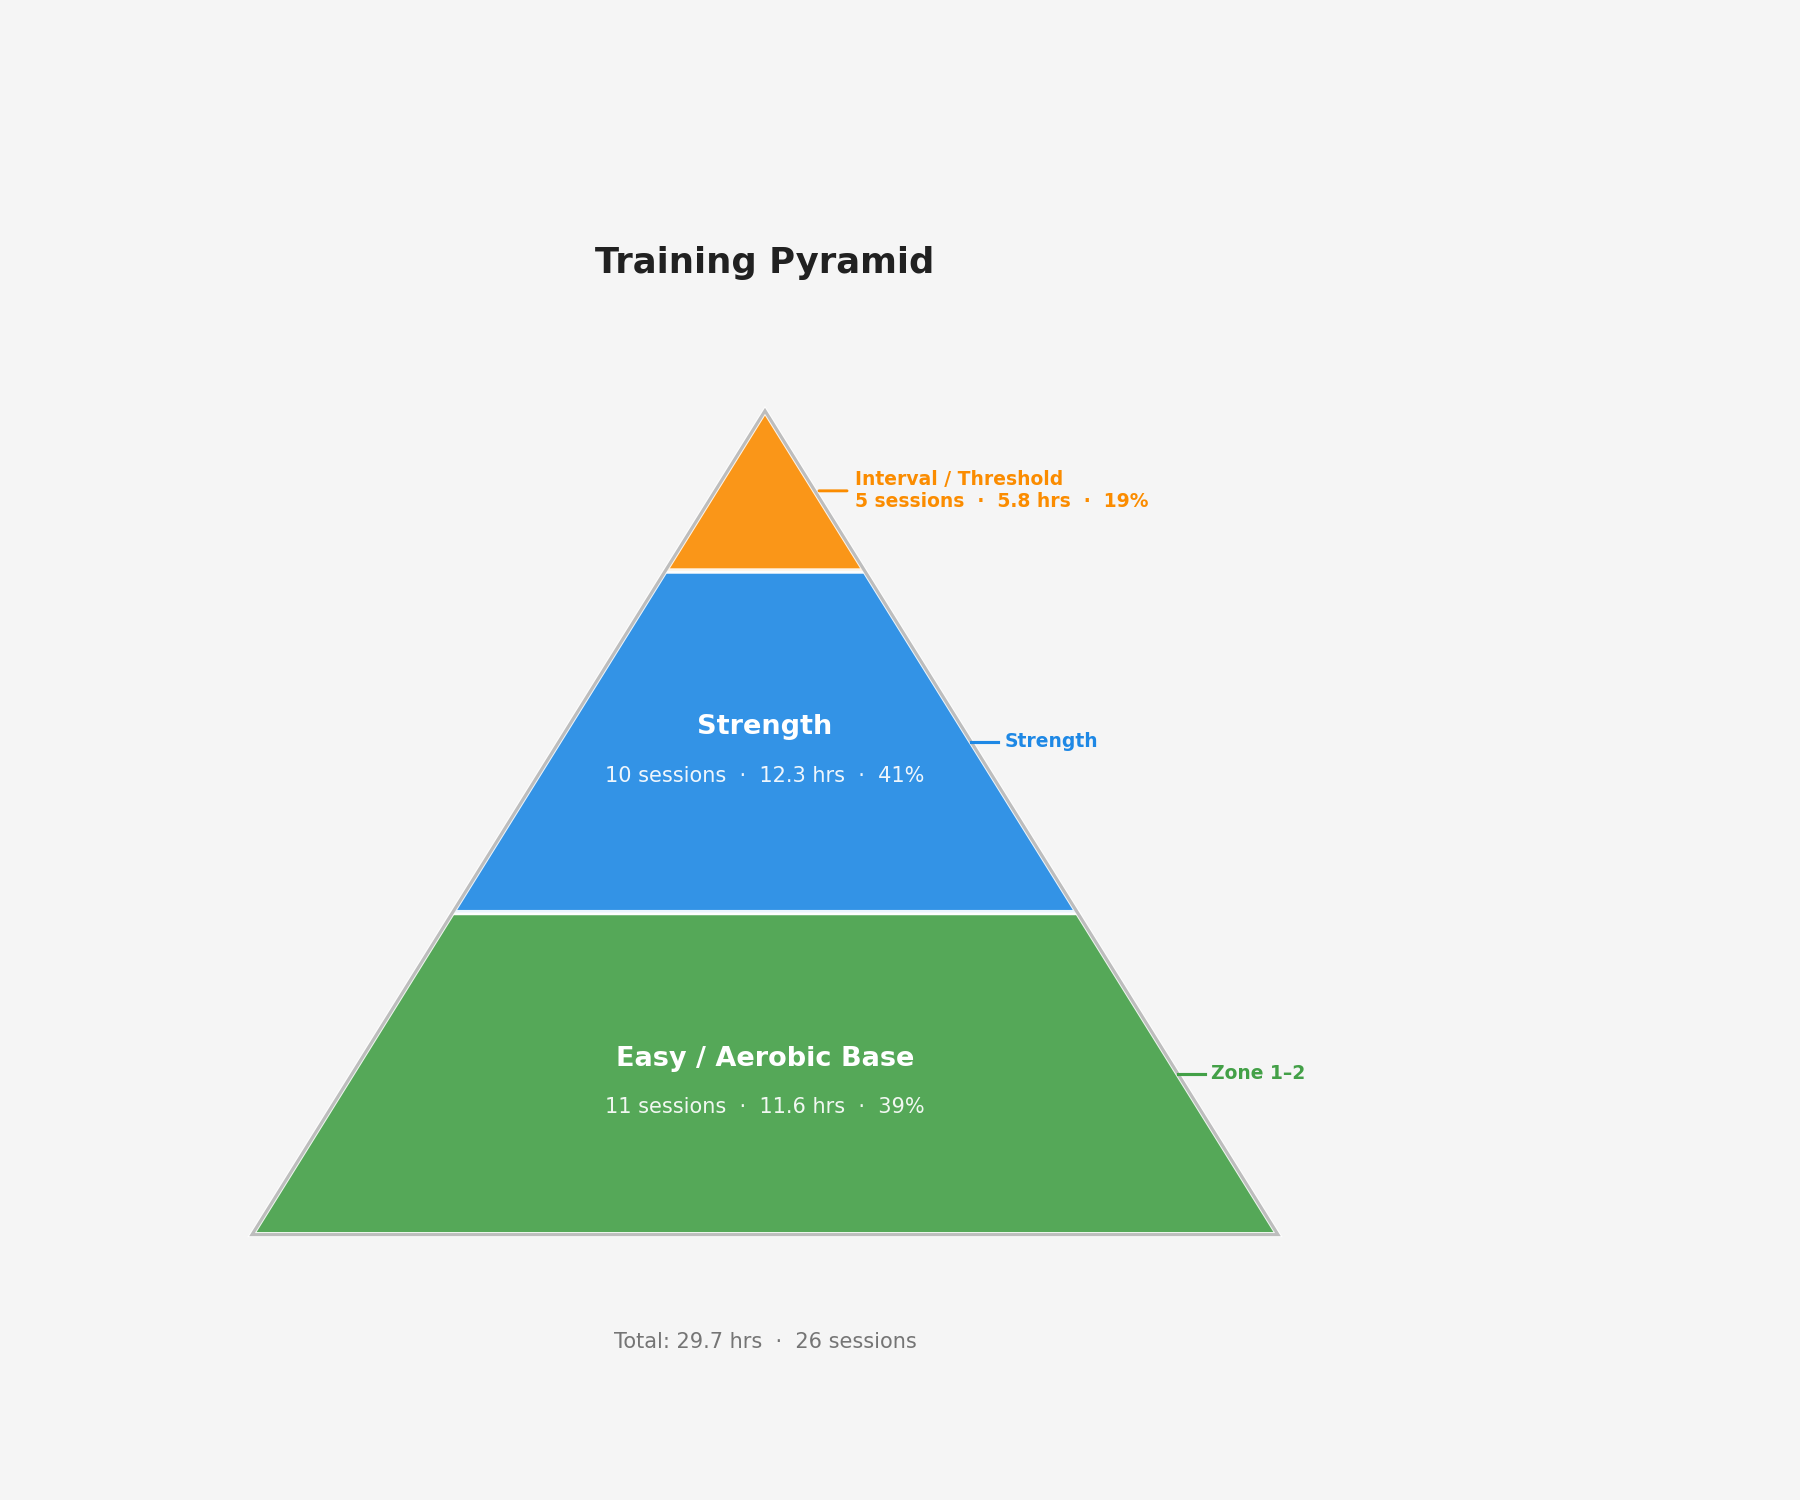
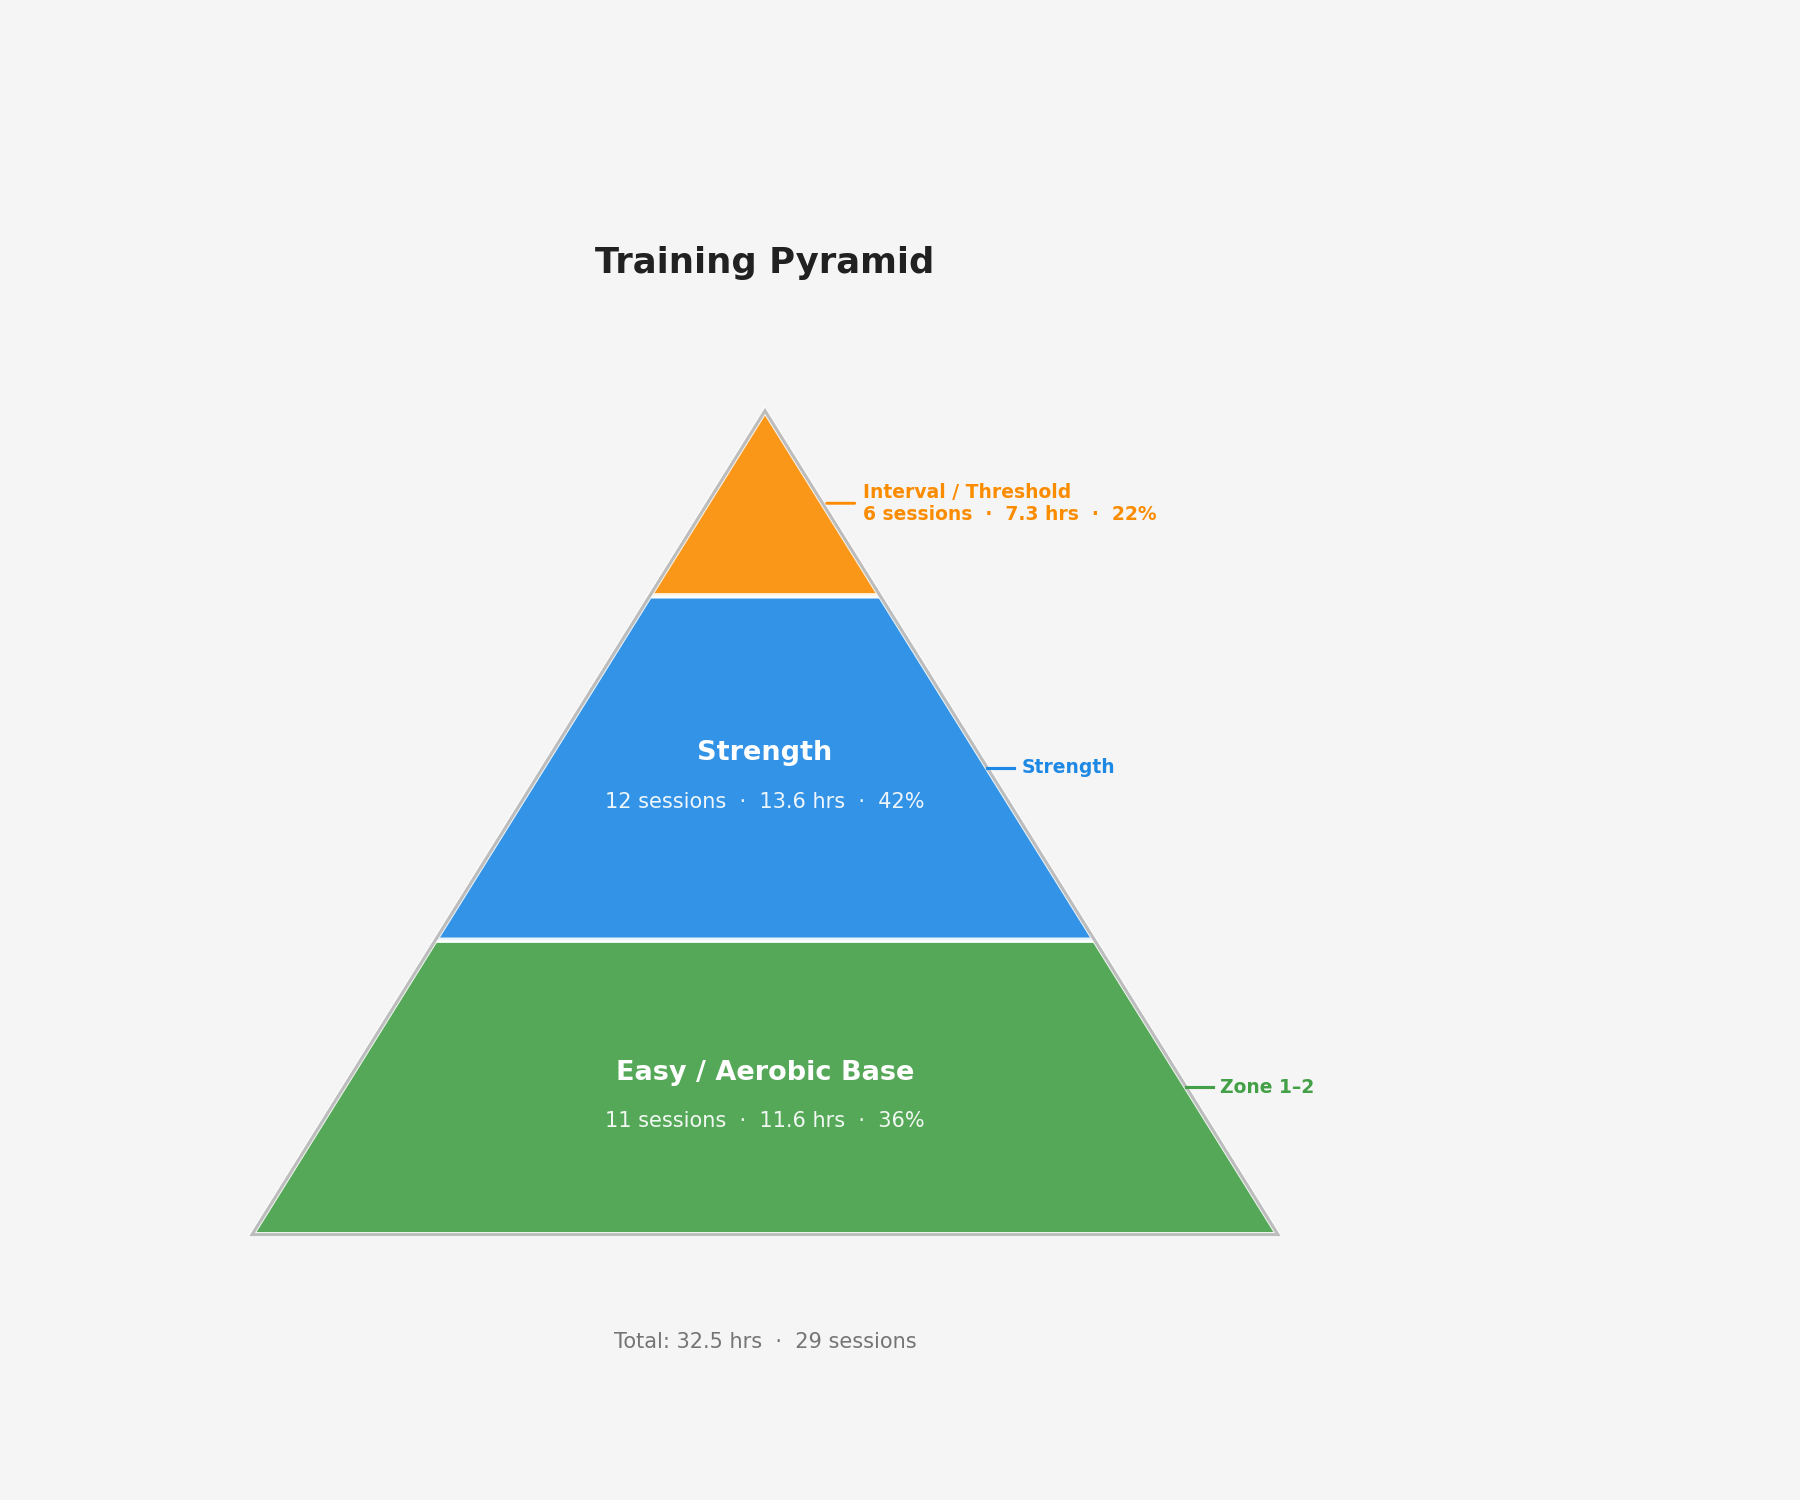
Report as of 27th May

diff --git a/reports/strength/strength_endurance_integration_report.md b/reports/strength/strength_endurance_integration_report.md
@@ -2,7 +2,7 @@
 
 ## Scope
 - Objective: evaluate strength-load stress, recovery cost, fatigue risk, and transfer signals to running
-- Sessions analyzed: 10
+- Sessions analyzed: 12
 
 ## Session: 2026-04-15_strength.fit (2026-04-15)
 
@@ -464,6 +464,98 @@
 ### 7. Recommendations
 - Keep next day run easy and monitor HR response
 
+## Session: 2026-05-24_strength.fit (2026-05-24)
+
+### 1. Executive Summary
+- Strength load: 24 sets, 71 reps, estimated load 0.0 kg
+- Session stress: recovery cost score 24.1/100, fatigue risk low
+- Transfer signal: insufficient_data
+
+### 2. Workout Breakdown
+- Duration: 14.4 min
+- Exercise list: Banded Glute Bridge, Barbell Hip Thrust on Floor, Cat Camel, Child's Pose Stretch, Cobra Stretch, Mountain Climber, Step-up
+- Sets/Reps: 24/71
+- Rest intervals total: 199.7 s
+- Total load availability: available
+
+### 3. Physiological Stress Analysis
+- Average HR: 83.0 bpm
+- Max HR: 108.0 bpm
+- HR zones: Z1 100.0%, Z2 0.0%, Z3 0.0%, Z4 0.0%, Z5 0.0%
+- Training Effect: aerobic 0.1, anaerobic 0.0
+- Exercise load field: not recorded
+- Estimated sweat loss: 152.0 mL (0.152 L)
+
+### 4. Recovery Impact
+- Recovery recommendation field: not available
+- Body Battery field: not available
+- HRV status field: not available
+- Stress field: not available
+- Recovery cost interpretation: low recovery demand
+
+### 5. Interaction With Running
+- Before run date: 2026-05-23 05:17:31
+- After run date: n/a
+- Easy score change after vs before: n/a
+- Pace change after vs before (%): n/a
+- HR change after vs before (%): n/a
+- Interaction signal: insufficient_data
+
+### 6. Fatigue Risk
+- Neuromuscular fatigue proxy (HR drift): -0.9 bpm
+- Time in high HR zones (Z4+Z5): 0.0%
+- Elevated HR flag: False
+- Final fatigue risk: low
+
+### 7. Recommendations
+- Current strength dose appears compatible with endurance workload
+
+## Session: 2026-05-27_strength.fit (2026-05-26)
+
+### 1. Executive Summary
+- Strength load: 76 sets, 215 reps, estimated load 0.0 kg
+- Session stress: recovery cost score 63.8/100, fatigue risk moderate
+- Transfer signal: insufficient_data
+
+### 2. Workout Breakdown
+- Duration: 61.3 min
+- Exercise list: Air Squat, Back Extension with Opposite Arm and Leg Reach, Bench Dip, Body-weight Wall Squat, Child's Pose Stretch, Dead Bug, Elbow Plank Pike Jacks, Hip Raise, Jump Squat, Lying Reverse Plank, Pistol Squat, Push-up, Reverse Lunge with Reach Back, Romanian Deadlift, Side Plank, Side-lying Leg Raise, Superman from Floor, Tabletop Dip, Warm-up
+- Sets/Reps: 76/215
+- Rest intervals total: 1544.2 s
+- Total load availability: available
+
+### 3. Physiological Stress Analysis
+- Average HR: 121.0 bpm
+- Max HR: 159.0 bpm
+- HR zones: Z1 40.1%, Z2 49.5%, Z3 9.9%, Z4 0.4%, Z5 0.0%
+- Training Effect: aerobic 2.1, anaerobic 1.1
+- Exercise load field: not recorded
+- Estimated sweat loss: 757.0 mL (0.757 L)
+
+### 4. Recovery Impact
+- Recovery recommendation field: not available
+- Body Battery field: not available
+- HRV status field: not available
+- Stress field: not available
+- Recovery cost interpretation: moderate recovery demand
+
+### 5. Interaction With Running
+- Before run date: 2026-05-23 05:17:31
+- After run date: n/a
+- Easy score change after vs before: n/a
+- Pace change after vs before (%): n/a
+- HR change after vs before (%): n/a
+- Interaction signal: insufficient_data
+
+### 6. Fatigue Risk
+- Neuromuscular fatigue proxy (HR drift): 13.0 bpm
+- Time in high HR zones (Z4+Z5): 0.4%
+- Elevated HR flag: False
+- Final fatigue risk: moderate
+
+### 7. Recommendations
+- Keep next day run easy and monitor HR response
+
 ## Final Output Tables
 ### Weekly Strength-Load Summary
 - Week 2026-04-13: sessions 2, duration 130.3 min, recovery cost 52.6, sustainability sustainable
@@ -471,19 +563,20 @@
 - Week 2026-04-27: sessions 2, duration 157.6 min, recovery cost 62.15, sustainability sustainable
 - Week 2026-05-04: sessions 1, duration 71.3 min, recovery cost 57.9, sustainability sustainable
 - Week 2026-05-11: sessions 2, duration 177.8 min, recovery cost 66.65, sustainability watch_load
-- Week 2026-05-18: sessions 1, duration 97.3 min, recovery cost 68.0, sustainability watch_load
+- Week 2026-05-18: sessions 2, duration 111.7 min, recovery cost 46.05, sustainability sustainable
+- Week 2026-05-25: sessions 1, duration 61.3 min, recovery cost 63.8, sustainability sustainable
 
 ### Recovery Interaction Analysis
+- insufficient_data: 4 session(s)
 - neutral_or_inconclusive: 3 session(s)
 - potential_positive_transfer: 3 session(s)
-- insufficient_data: 2 session(s)
 - possible_interference: 2 session(s)
 
 ### Running-Performance Transfer Observations
-- strength_session_count: 10.0 (Total strength sessions analyzed)
-- avg_recovery_cost_score: 59.84 (Lower is easier to absorb into endurance plan)
+- strength_session_count: 12.0 (Total strength sessions analyzed)
+- avg_recovery_cost_score: 57.19 (Lower is easier to absorb into endurance plan)
 - high_fatigue_share_pct: 0.0 (Share of sessions classified as high fatigue risk)
+- interaction_insufficient_data: 4.0 (Count of strength sessions with this running interaction signal)
 - interaction_neutral_or_inconclusive: 3.0 (Count of strength sessions with this running interaction signal)
 - interaction_potential_positive_transfer: 3.0 (Count of strength sessions with this running interaction signal)
-- interaction_insufficient_data: 2.0 (Count of strength sessions with this running interaction signal)
 - interaction_possible_interference: 2.0 (Count of strength sessions with this running interaction signal)